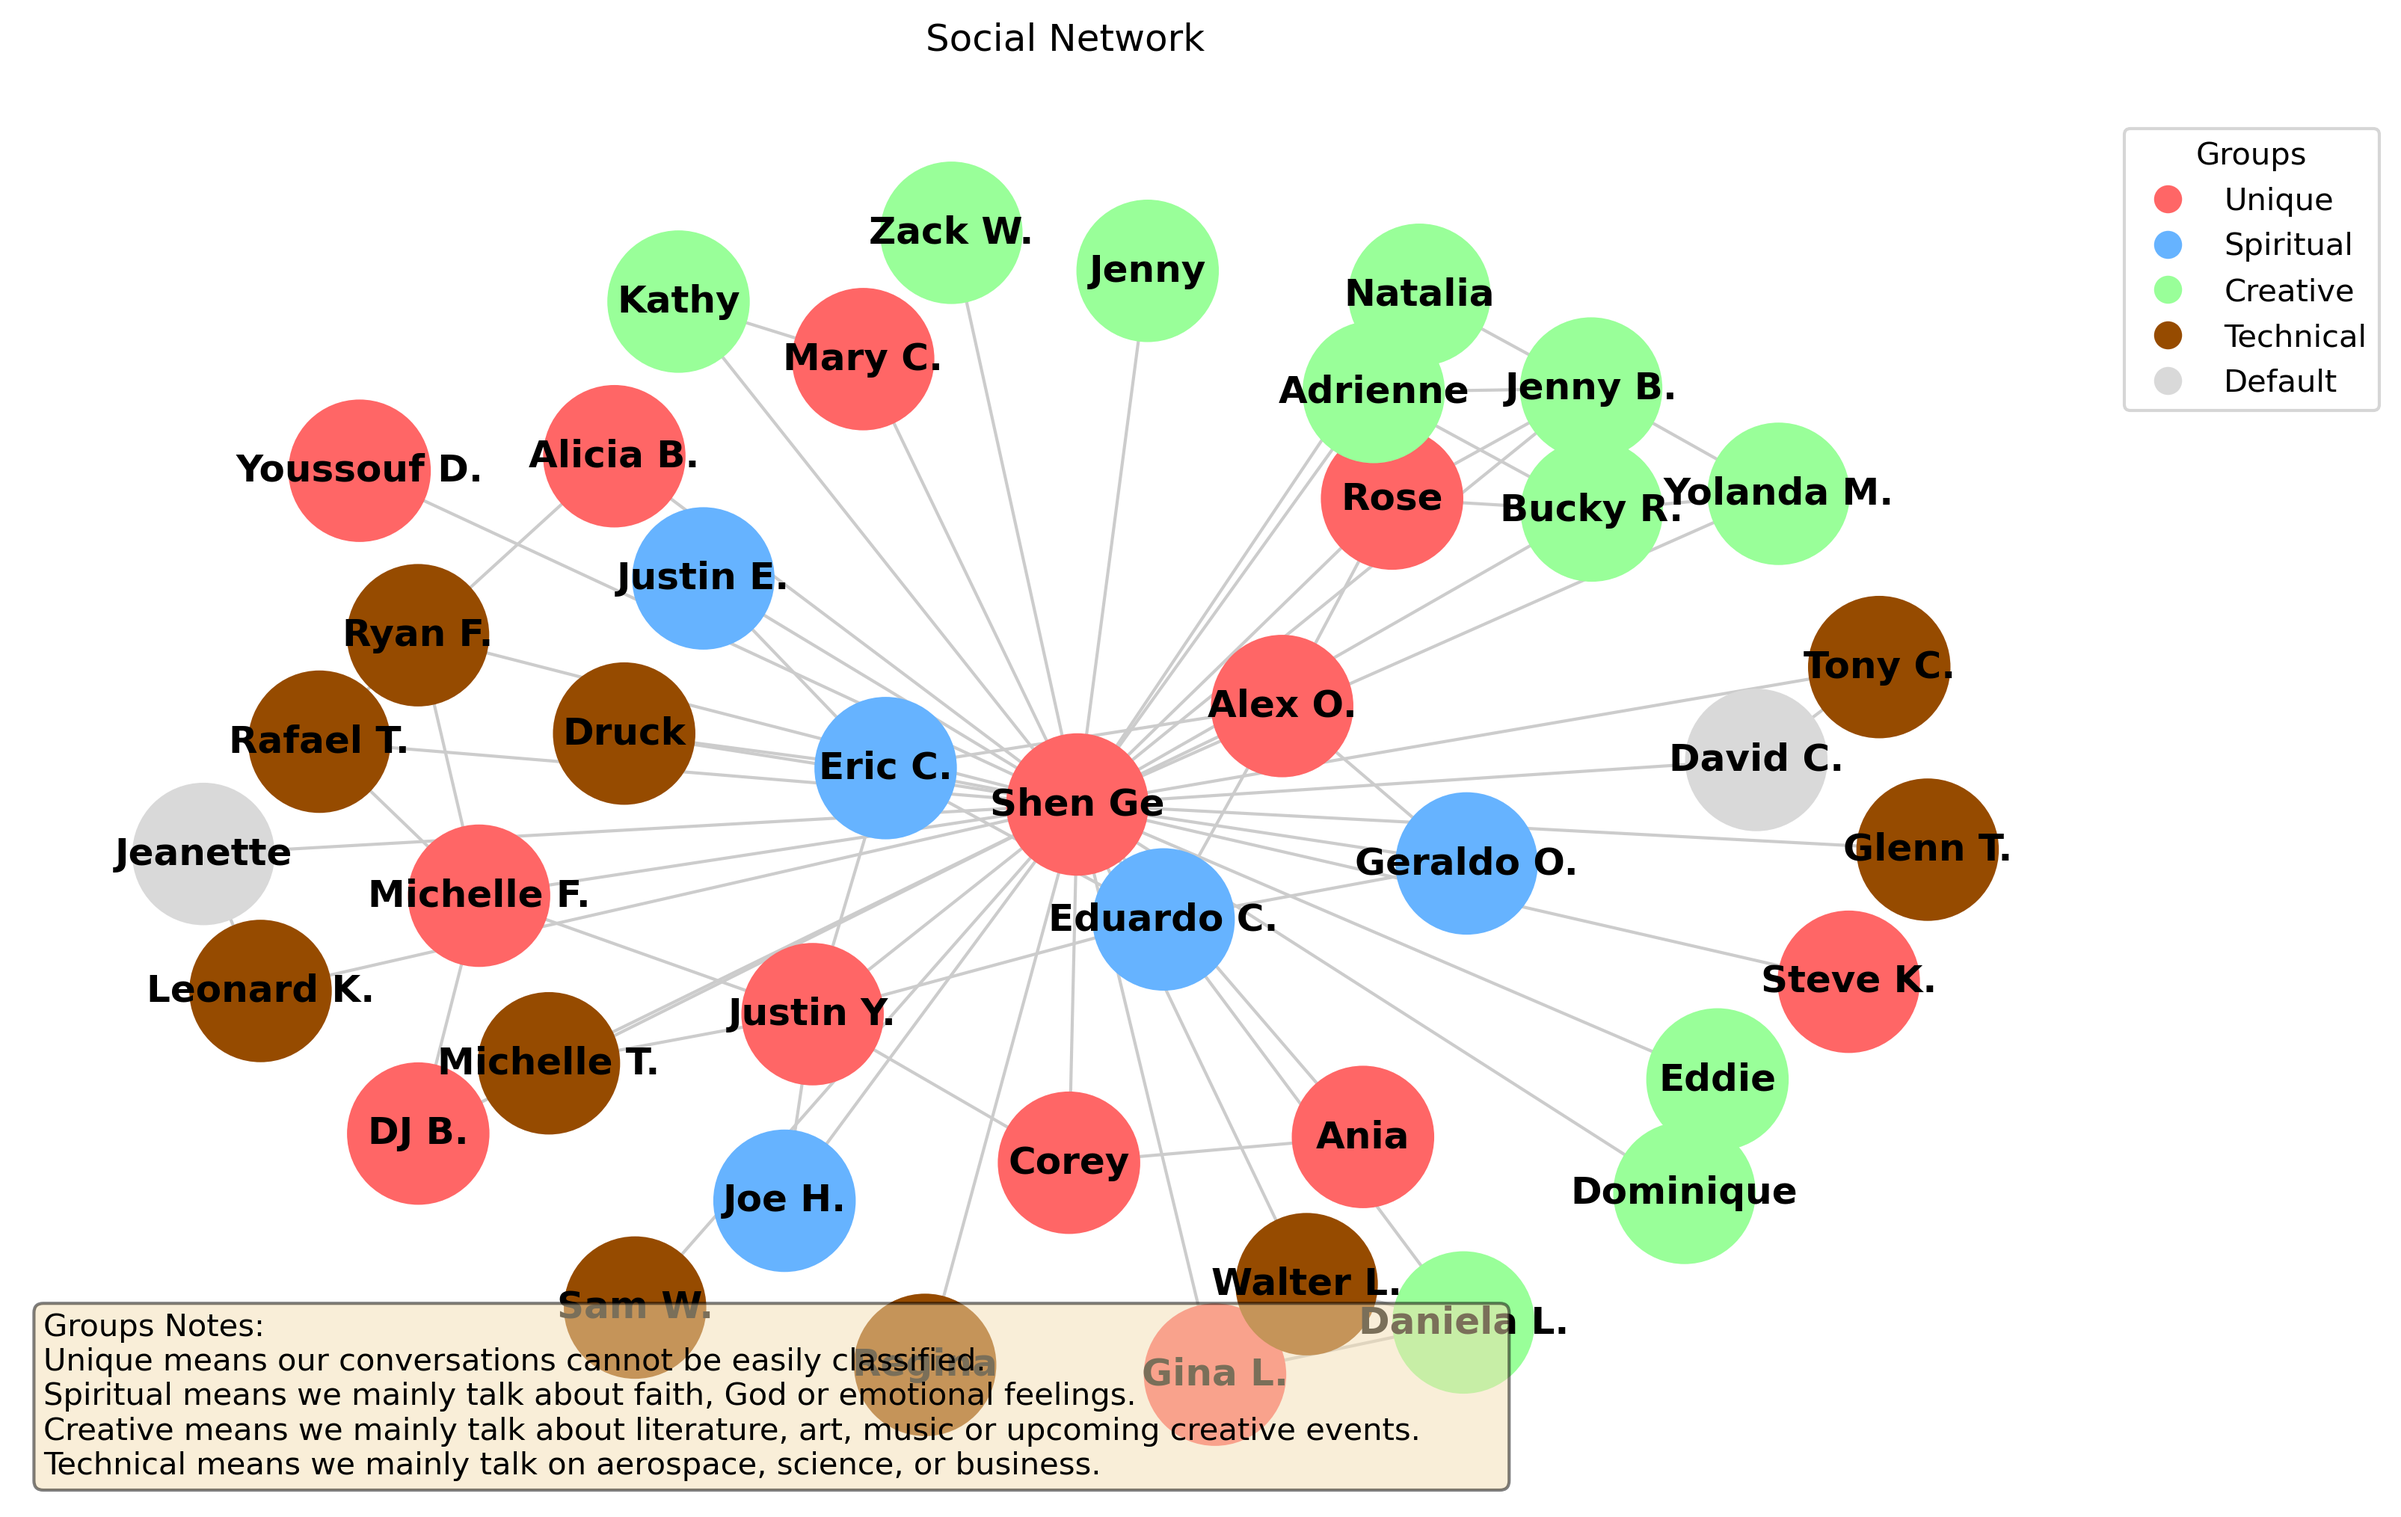
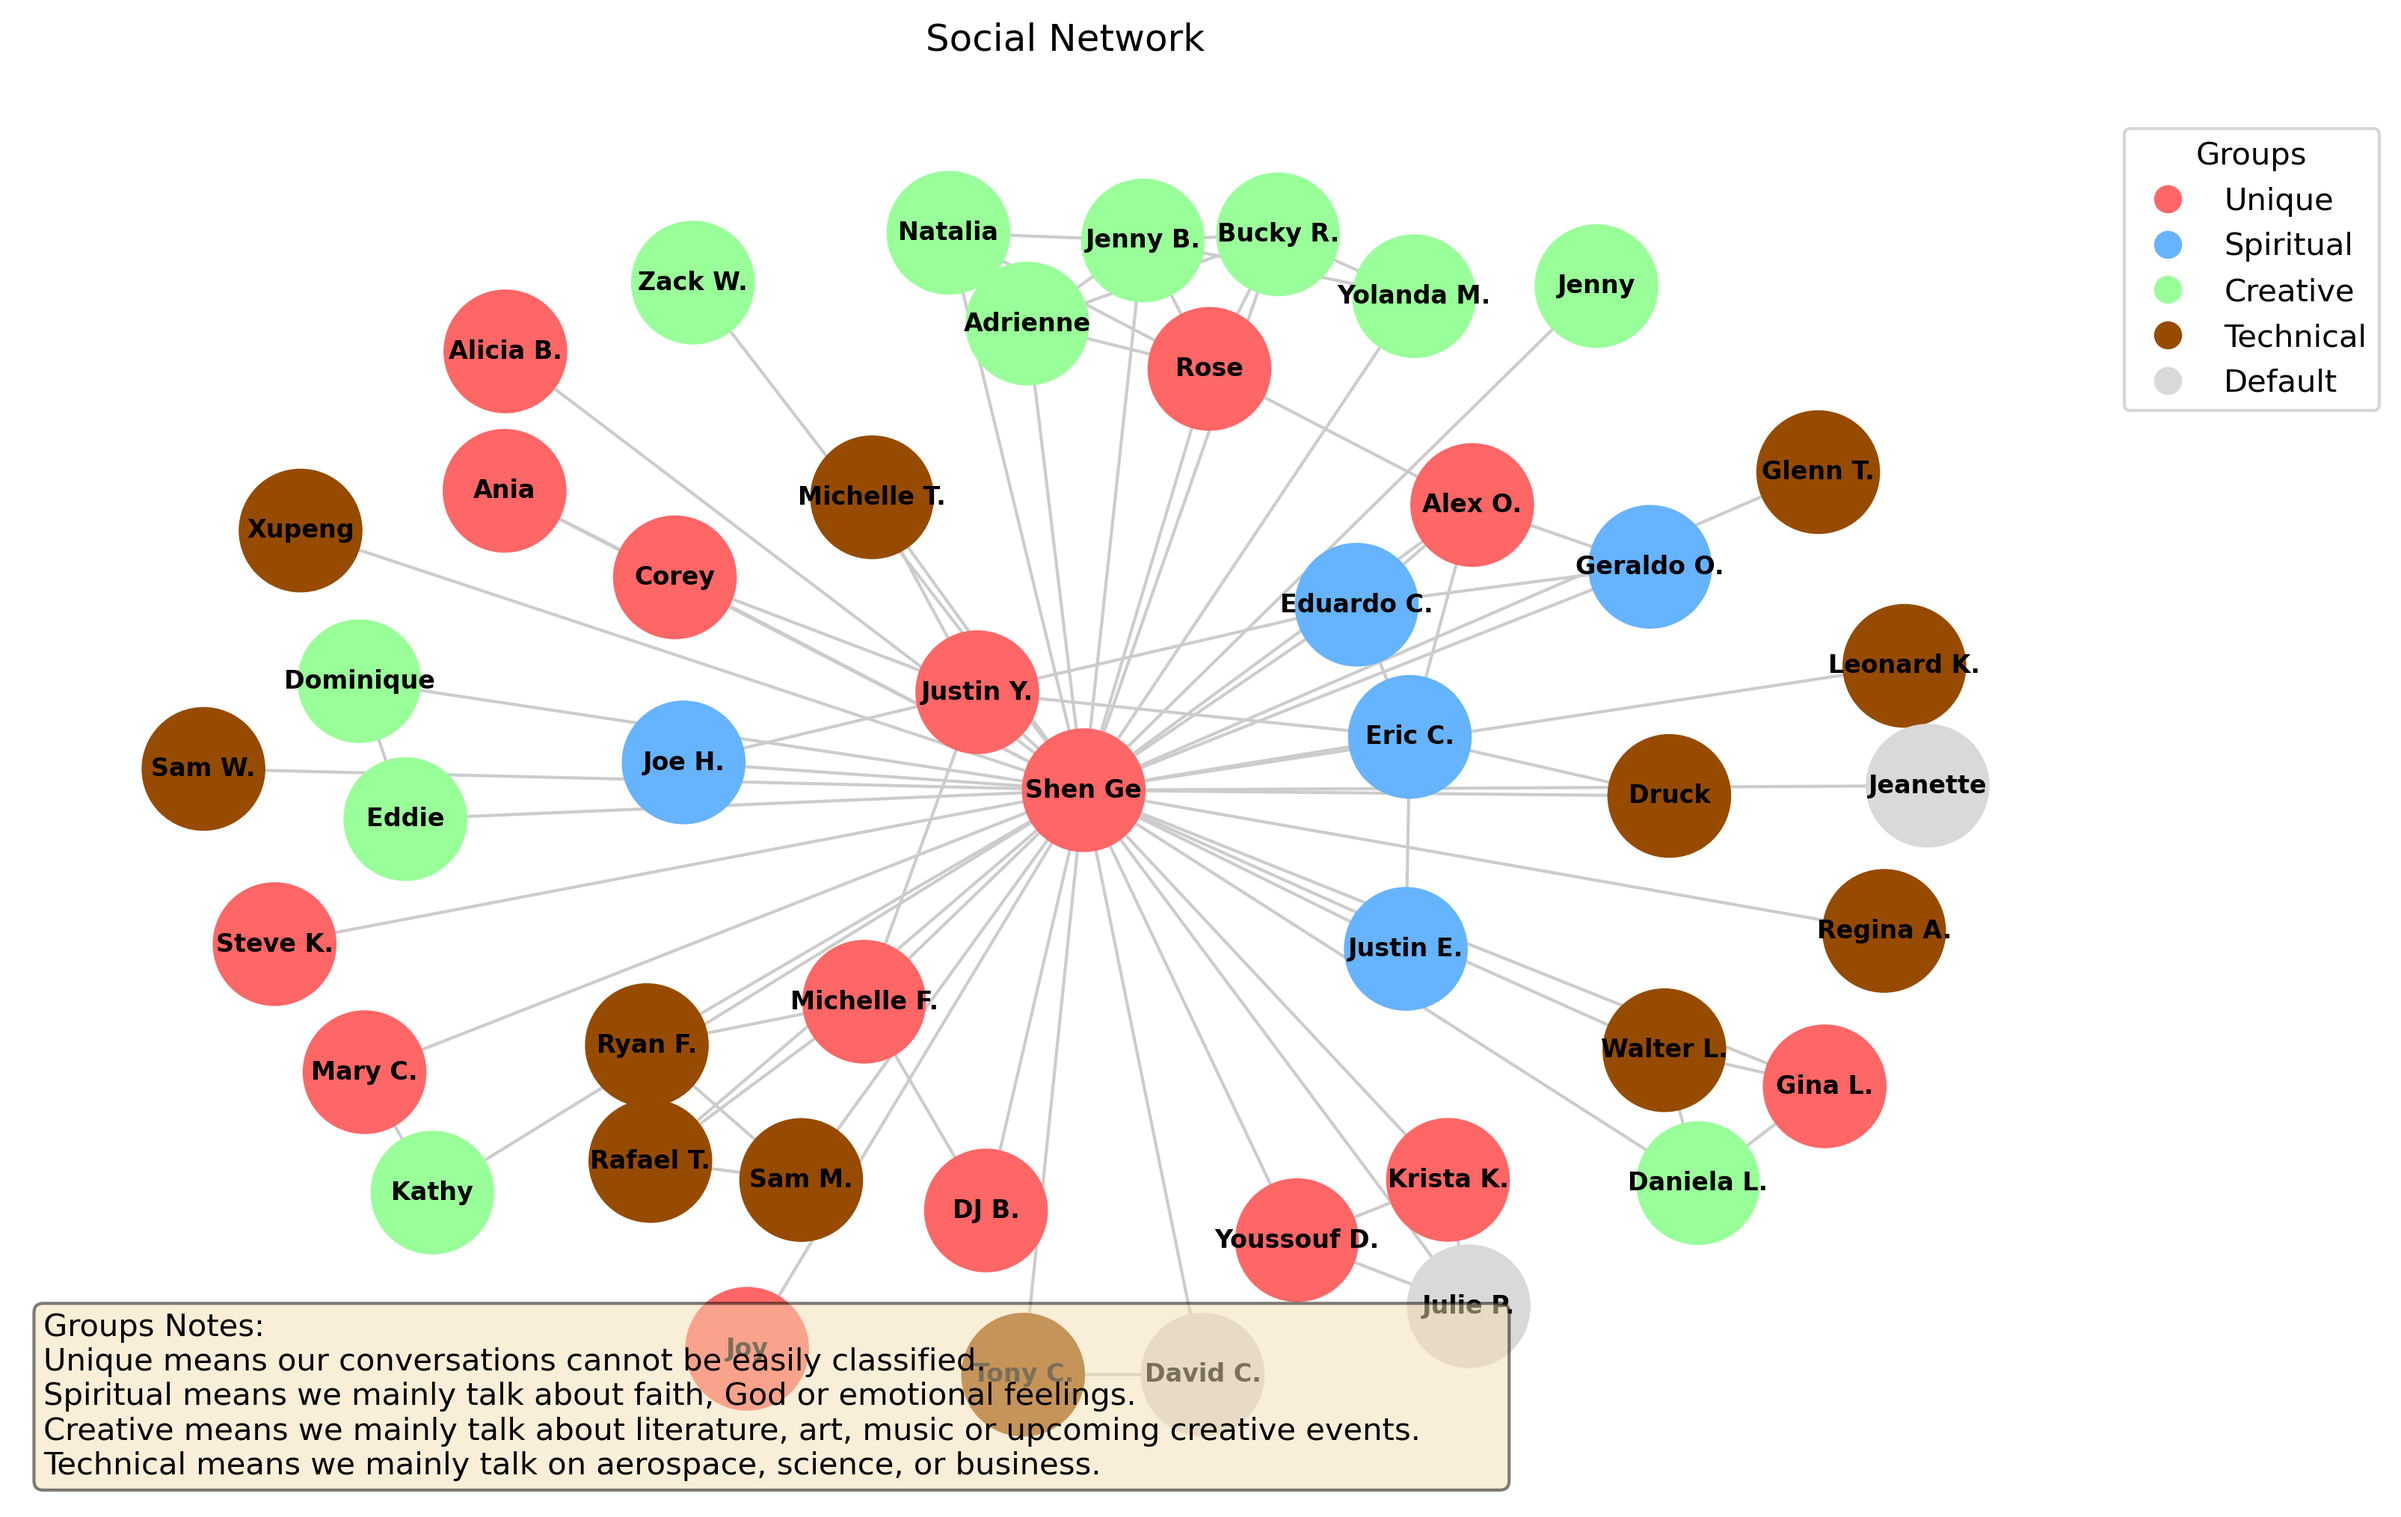
misc: add update to social diagram and regen

Changed region(s): [[0.0311, 0.0931, 0.8409, 0.9625]]

diff --git a/socialchart.py b/socialchart.py
@@ -54,15 +54,15 @@ def build_social_diagram_static(nodes_list, connections, description="", title="
     
     
     # 6. Visualization
-    plt.figure(figsize=(10, 7))
+    plt.figure(figsize=(10, 10))
     pos = nx.spring_layout(G, k=0.5, iterations=50) # k adjusts spacing
     
     nx.draw(
         G, pos, 
         with_labels=True, 
         node_color=node_colors, 
-        node_size=2500, 
-        font_size=10, 
+        node_size=2000, 
+        font_size=3, 
         font_weight='bold', 
         edge_color="#cccccc",
         width=1.5
@@ -97,7 +97,7 @@ def build_social_diagram_full(nodes_list, connections, description="", title="So
     pos = nx.spring_layout(G, k=0.5)
     
     nx.draw(G, pos, with_labels=True, node_color=node_colors, 
-            node_size=2000, font_weight='bold', edge_color="#cccccc", ax=ax)
+            node_size=1500, font_size=8, font_weight='bold', edge_color="#cccccc", ax=ax)
 
     # 3. ADD THE TEXT BOX
     if description:
@@ -151,10 +151,12 @@ if __name__ == '__main__':
         ('Rafael T.', 'Technical'),
         ('Ryan F.', 'Technical'),
         ('Sam W.', 'Technical'),
+        ('Sam M.', 'Technical'),
         ('Michelle T.', 'Technical'),
-        ('Regina', 'Technical'),
+        ('Regina A.', 'Technical'),
         ('Glenn T.', 'Technical'),
         ('Leonard K.', 'Technical'),
+        ('Xupeng', 'Technical'),
         ('Corey', 'Unique'),
         ('Justin Y.', 'Unique'),
         ('Michelle F.', 'Unique'),
@@ -162,10 +164,13 @@ if __name__ == '__main__':
         ('Mary C.', 'Unique'),
         ('Steve K.', 'Unique'),
         ('Youssouf D.', 'Unique'),
+        ('Krista K.', 'Unique'),
+        ('Joy', 'Unique'),
     ]
     
     # Each tuple is a link between two people (nodes)
     social_connections = [
+        ('Shen Ge', 'Joy'),
         ('Shen Ge', 'Michelle F.'),
         ('Shen Ge', 'Rose'),
         ('Shen Ge', 'Alex O.'),
@@ -193,7 +198,8 @@ if __name__ == '__main__':
         ('Shen Ge', 'Yolanda M.'),
         ('Shen Ge', 'Alicia B.'),
         ('Shen Ge', 'Sam W.'),
-        ('Shen Ge', 'Regina'),
+        ('Shen Ge', 'Sam M.'),
+        ('Shen Ge', 'Regina A.'),
         ('Shen Ge', 'Glenn T.'),
         ('Shen Ge', 'Leonard K.'),
         ('Shen Ge', 'Jeanette'),
@@ -201,8 +207,14 @@ if __name__ == '__main__':
         ('Shen Ge', 'Kathy'),
         ('Shen Ge', 'Mary C.'),
         ('Kathy', 'Mary C.'),
+        ('Shen Ge', 'Xupeng'),
         ('Shen Ge', 'Steve K.'),
         ('Shen Ge', 'Youssouf D.'),
+        ('Shen Ge', 'Krista K.'),
+        ('Shen Ge', 'Julie P.'),
+        ('Youssouf D.', 'Julie P.'),
+        ('Youssouf D.', 'Krista K.'),
+        ('Julie P.', 'Krista K.'),
         ('Shen Ge', 'Gina L.'),
         ('Shen Ge', 'Walter L.'),
         ('Shen Ge', 'Daniela L.'),
@@ -219,7 +231,8 @@ if __name__ == '__main__':
         ('Michelle F.', 'Rafael T.'),
         ('Michelle F.', 'Ryan F.'),
         ('Rafael T.', 'Ryan F.'),
-        ('Alicia B.', 'Ryan F.'),
+        ('Rafael T.', 'Sam M.'),
+        ('Sam M.', 'Ryan F.'),
         ('Tony C.', 'David C.'),
         ('Joe H.', 'Justin Y.'),
         ('Eric C.', 'Justin Y.'),

diff --git a/.ipynb_checkpoints/gratitudes-checkpoint.py b/.ipynb_checkpoints/gratitudes-checkpoint.py
@@ -1,0 +1,70 @@
+# -*- coding: utf-8 -*-
+"""
+Created on Sun Nov 24 22:24:30 2024
+
+@author: Shen
+@name: Friends and Gratitudes
+@description:
+    
+    Gratitudes
+"""
+import numpy as np
+
+class Friend:
+    num_instances = 0
+    def __init__(self, name, affiliation='Unknown', onlist=False, phone=0):
+        type(self).num_instances += 1
+        self.name  = name        
+        self.affiliation = affiliation
+        self.onlist = onlist
+        
+        self._phone = phone
+
+    # Add a __str__ method to print info about the object
+    def __str__(self):
+        return f"Name: {self.name}, \
+                Affiliation: {self.affiliation}, \
+                Onlist: {self.onlist} \
+                Phone: {self.phone} "
+        
+    @property
+    def phone(self):
+        return self._phone
+    
+    @phone.setter
+    def phone(self, value):
+      if not isinstance(value, int) or value < 0:
+          raise ValueError("Phone must be a positive integer.")
+      self._phone = value
+
+    @property
+    def onlist_bool(self):
+        return "True" if self.onlist else "False"
+
+def return_bool(value):
+    return "True" if value else "False"
+
+if __name__ == '__main__':
+    print('Friendship list...')
+    friends = []
+    friends.append(Friend('Justin Yeung', 'UT Health MPH Student', True))
+    friends.append(Friend('Ben ?', 'Nurse', True))
+    friends.append(Friend('John Graves', 'Intuitive Machines', True))
+    friends.append(Friend('Evan Zeigmann', 'St. Thomas counselor student', True))
+    friends.append(Friend('Megan Finkel', 'Indiana University Russian Slavic Studies PhD student', True))
+    friends.append(Friend('Lindsay Nichols', '?', True))
+    friends.append(Friend('Gina Lowry', 'Former teacher; now seeking assistant principal position', True))
+    friends.append(Friend('Alicia Baker', 'Jacobs / NASA', True))
+    friends.append(Friend('Jim Boyd', 'Intuitive Machines', True))
+    friends.append(Friend('Sam Welsh', 'Intuitive Machines', True))
+    friends.append(Friend('Michelle Free', '?', True))
+    friends.append(Friend('Jim Temple', 'Retired', True))
+    friends.append(Friend('Shen Ge', 'Intuitive Machines', True, 8328082371))
+    friends.append(Friend('Melissa Hong Ge', '?', True))
+    friends.append(Friend('Yongfu Ge', '?'))
+    
+    print(f"{'Name':<20} {'Affiliation':<60} {'Onlist':10} {'Phone':<9}")
+    for friend in friends:
+        boolvalue = return_bool(friend.onlist)
+        print(f"{friend.name:<20} {friend.affiliation:<60} {friend.onlist_bool:10} {friend.phone:<9}")
+        # print(friend)
